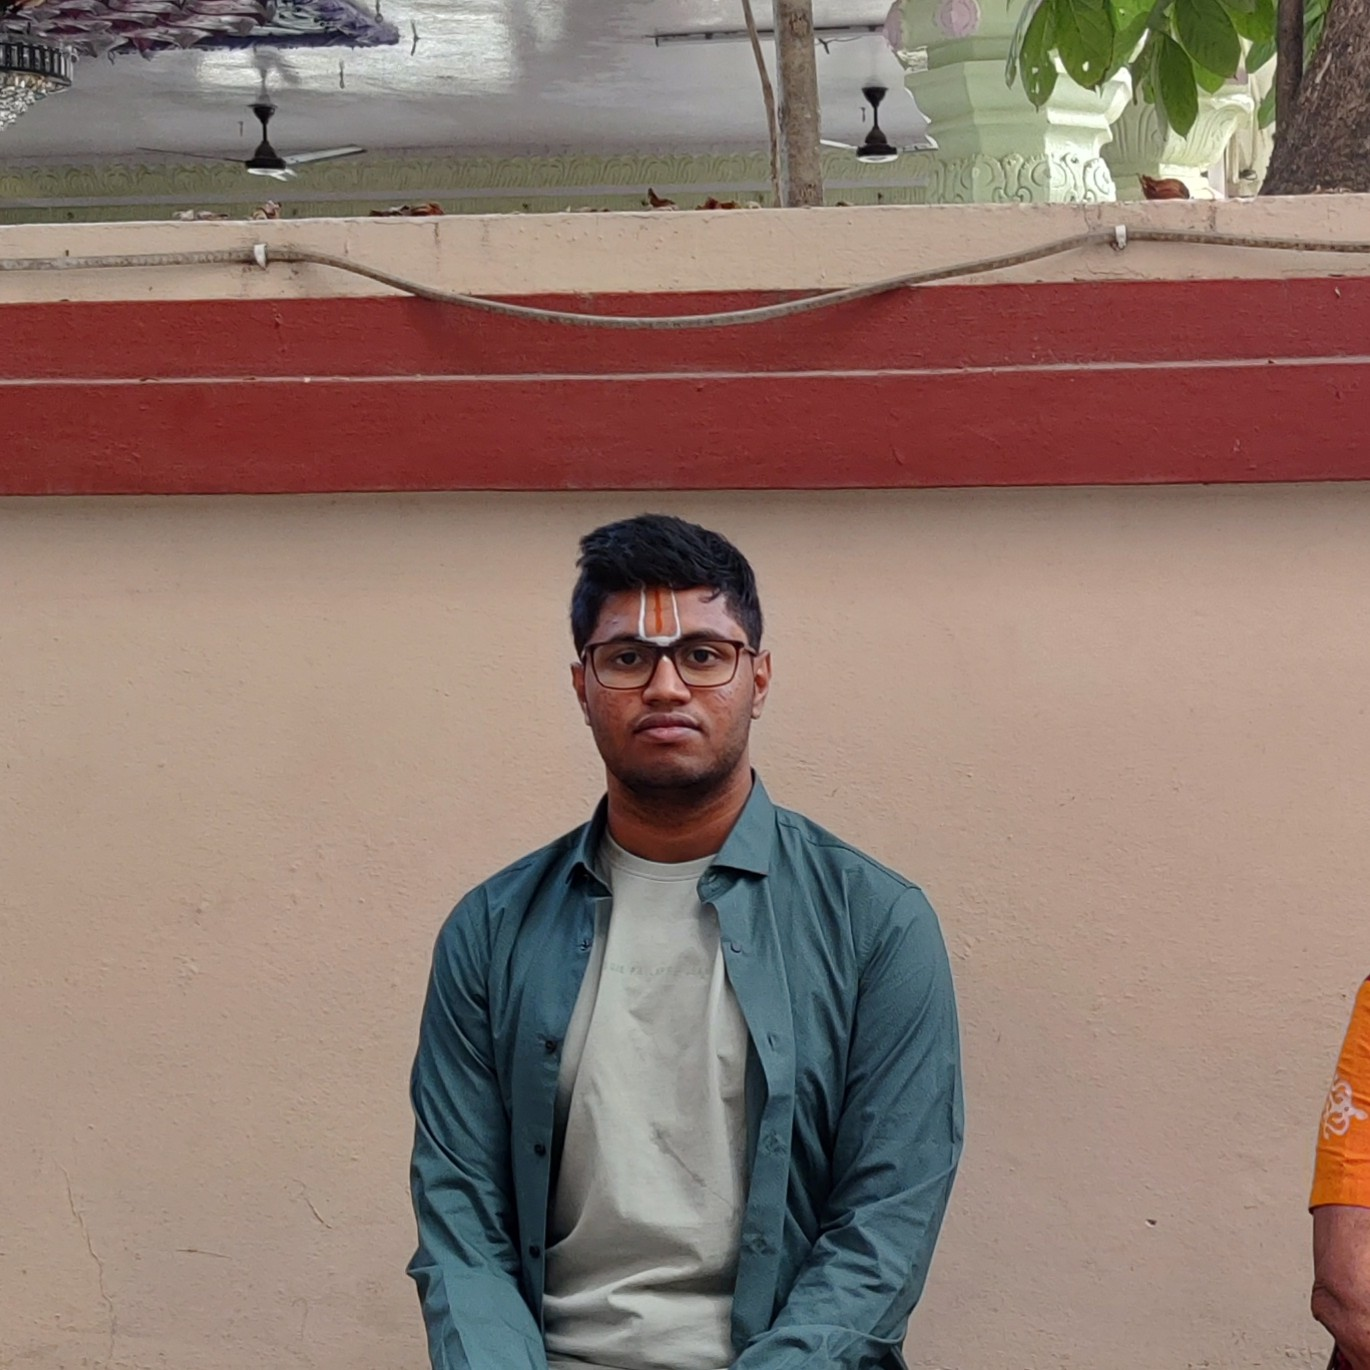
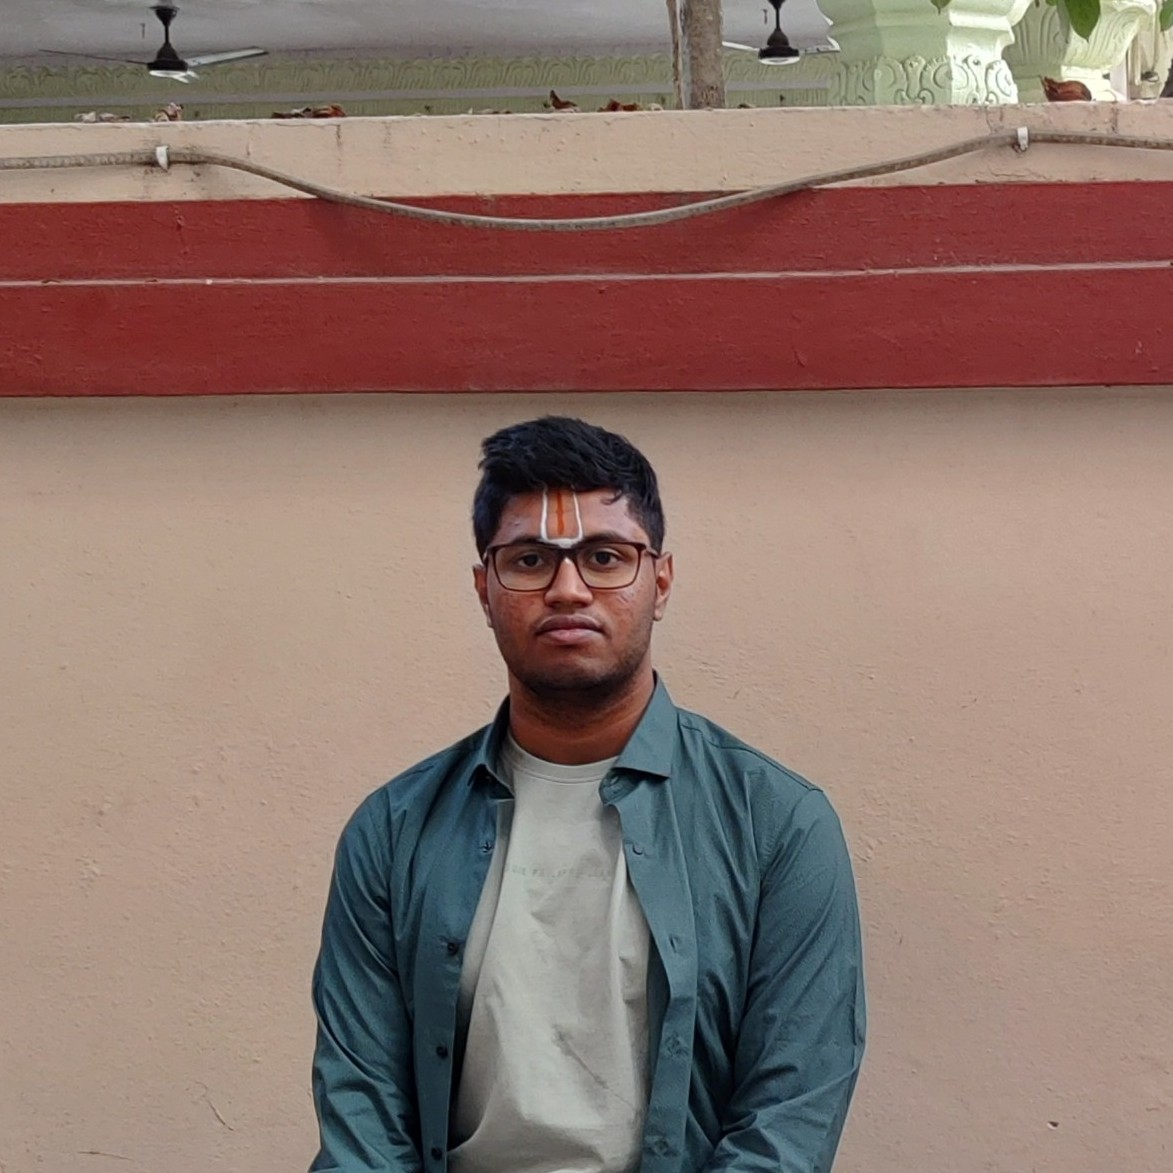
Added new members and fixed leads issue

diff --git a/amrita-robotics/src/routes/team/+page.svelte b/amrita-robotics/src/routes/team/+page.svelte
@@ -26,16 +26,18 @@
         { name: "Adityaa Raghuram", role: "Assembly", quote: "Always be yourself no matter what,even if it sounds silly or dumb,it sucks not to be liked but it sucks even more not being yourself", img: "/images/Person/Adityaa.jpg", linkedin: "https://www.linkedin.com/in/adityaa-raghuram-207299372" },
         { name: "Pranav Vipin Pillai", role: "Assembly", quote: "Fortune Favours The Brave", img: "/images/Person/Pranav_V.jpg", linkedin: "https://www.linkedin.com/in/pranav-vipin-pillai-872723333/" },
         { name: "Anish Koduganti", role: "Assembly", quote: "Hesitation is defeat", img: "/images/Person/Anish.jpeg", linkedin: "https://www.linkedin.com/in/anish-koduganti-13991a29a/" },
+        { name: "V. Sonika", role: "Assembly", quote: "If you can dream it, you can do it.", img: "/images/Person/Sonika.jpg", linkedin: "https://www.linkedin.com/in/sonika-v-491426372?utm_source=share&utm_campaign=share_via&utm_content=profile&utm_medium=android_app" },
+        { name: "Kotla Vennela ", role: "Assembly", quote: "Clarity comes from persistence, not shortcuts", img: "/images/Person/Vennela.jpg", linkedin: "https://www.linkedin.com/in/kotla-vennela-42bb3b286?utm_source=share&utm_campaign=share_via&utm_content=profile&utm_medium=android_app" }
       ]
     },
     {
       name: "Design",
       members: [
         { name: "Monish N Pillay", role: "Project Lead", quote: "Diamonds are made under pressure. Keep at it!", img: "/images/Person/Monish.png", linkedin: "https://www.linkedin.com/in/monishnpillay" },
+        { name: "VEGESNA SIDDHARTHA VARMA", role: "Project Manager", quote: "\"If you don't build your dream, someone else will hire you to help them build theirs\" - Dhirubhai Ambani", img: "/images/Person/Siddhartha.jpg", linkedin: "https://www.linkedin.com/in/siddhartha-varma-789399289" },
         { name: "Nandhith Karthikeyan", role: "Design Lead", quote: "never rest", img: "/images/Person/Nandhith.jpeg", linkedin: "https://www.linkedin.com/in/nandhith-karthikeyan-717993316/" },
         { name: "S Sarvesh", role: "Hardware Manager", quote: "Necessity is the mother of invention", img: "/images/Person/Sarvesh.png", linkedin: "https://www.linkedin.com/in/sarvesh-s-7940a220b/" },
         { name: "MADASU AMAN SIDDHARTH", role: "Design", quote: " All our dreams can come true, if we have the courage to pursue them.", img: "/images/Person/Aman.jpg", linkedin: "https://www.linkedin.com/in/amanpro116" },
-        { name: "VEGESNA SIDDHARTHA VARMA", role: "Design", quote: "\"If you don't build your dream, someone else will hire you to help them build theirs\" - Dhirubhai Ambani", img: "/images/Person/Siddhartha.jpg", linkedin: "https://www.linkedin.com/in/siddhartha-varma-789399289" },
         { name: "Roopavani S.D", role: "Design", quote: "\"You never fail until you stop trying.\"", img: "/images/Person/Roopavani.jpg", linkedin: "https://www.linkedin.com/in/roopa-1253a19m08" }
       ]
     },
@@ -64,13 +66,15 @@
     {
       name: "Marketing",
       members: [
-        { name: "Vijayeendra Y", role: "Outreach", quote: "Paths shift when ideas are explored", img: "/images/Person/Vijayeendra.jpg", linkedin: "https://www.linkedin.com/in/vijayeendra-yalpi-3a7184287" },
+        { name: "Pranav PK", role: "Sponsorship Lead", quote: "The world is full of obvious things which nobody by any chance ever observes.", img: "/images/Person/Pranav.jpg", linkedin: "https://www.linkedin.com/in/pranav-pk-39353b346/" },
+        { name: "Vijayeendra Y", role: "Financial Lead", quote: "Paths shift when ideas are explored", img: "/images/Person/Vijayeendra.jpg", linkedin: "https://www.linkedin.com/in/vijayeendra-yalpi-3a7184287" },
         { name: "Pasupuleti Satwik", role: "Outreach", quote: "Participating is important than winning.", img: "/images/Person/Satwik.jpg", linkedin: "https://www.linkedin.com/in/p-satwik-527580348" },
         { name: "S Muthusiva", role: "Outreach", quote: "Education never ends Watson. It is a series of lessons, with the greatest for the last.", img: "/images/Person/Muthusiva.jpg", linkedin: "https://www.linkedin.com/in/muthusiva-s-302307386" },
-        { name: "Pranav PK", role: "Outreach", quote: "The world is full of obvious things which nobody by any chance ever observes.", img: "/images/Person/Pranav.jpg", linkedin: "https://www.linkedin.com/in/pranav-pk-39353b346/" },
         { name: "CHILUKURI ROHAN SASHANK REDDY ", role: "Outreach", quote: "\"It is by going down into the abyss that we recover the treasures of life. Where you stumble, there lies your treasure,\" from Joseph Campbell.", img: "/images/Person/Rohan.jpg", linkedin: "https://www.linkedin.com/in/chilukuri-rohan-sashank-reddy-undefined-aa169336a" },
         { name: "Tanish Yella", role: "Outreach", quote: "Fall seven times and stand up eight", img: "/images/Person/Tanish.jpg", linkedin: "https://www.linkedin.com/in/tanish-yella-378578322?utm_source=share&utm_campaign=share_via&utm_content=profile&utm_medium=android_app" },
-        { name: "Aravind Sri Ram S", role: "Outreach", quote: "Never accept a price that diminishes the value of your platform. Your fee is not a cost to the brand; it is the calculated rental price for your trust, credibility, and access to your community.", img: "/images/Person/Aravind.jpg", linkedin: "https://www.linkedin.com/in/aravind-sri-ram-86648a382" }
+        { name: "Aravind Sri Ram S", role: "Outreach", quote: "Never accept a price that diminishes the value of your platform. Your fee is not a cost to the brand; it is the calculated rental price for your trust, credibility, and access to your community.", img: "/images/Person/Aravind.jpg", linkedin: "https://www.linkedin.com/in/aravind-sri-ram-86648a382" },
+        { name: "Sudarshan Suresh", role: "Outreach", quote: "The world is ruled by fear. Fear of others, fear of the future", img: "/images/Person/Sudharshan.jpg", linkedin: "https://www.linkedin.com/in/sudarshan-suresh-6a9074329?utm_source=share&utm_campaign=share_via&utm_content=profile&utm_medium=android_app" },
+        { name: "Kaustubh Narayan Kalpathy", role: "Outreach", quote: "God gave me one life... I’m here to make it count", img: "/images/Person/Kaustubh.jpeg", linkedin: "http://www.linkedin.com/in/kaustubh-kalpathy-72175a360" }
       ]
     }
   ];
